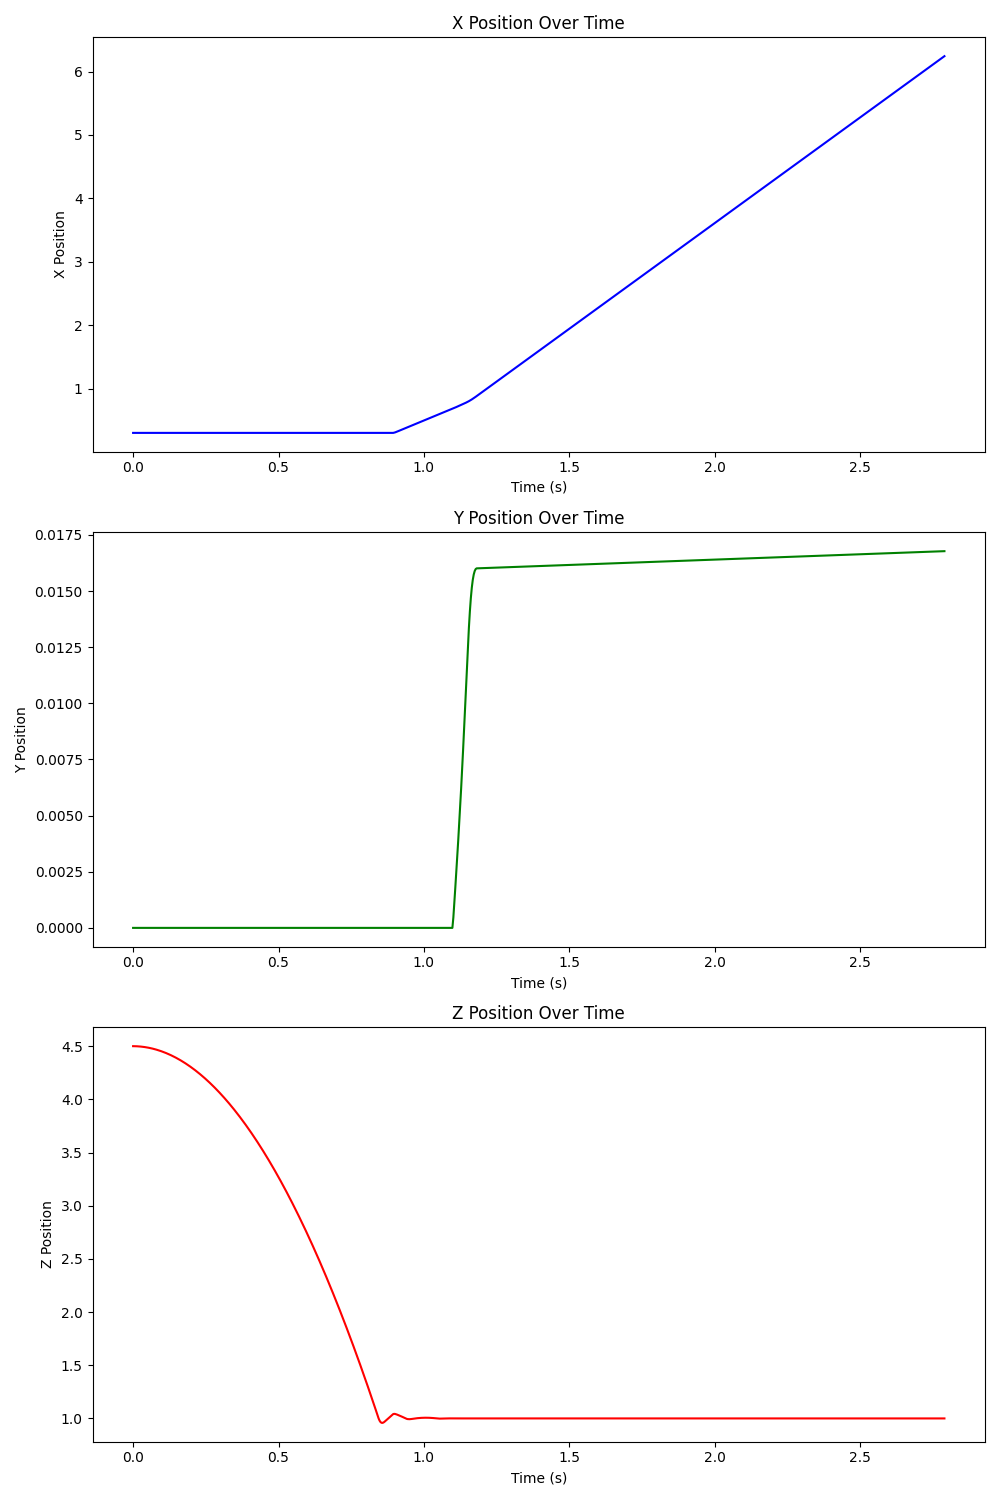
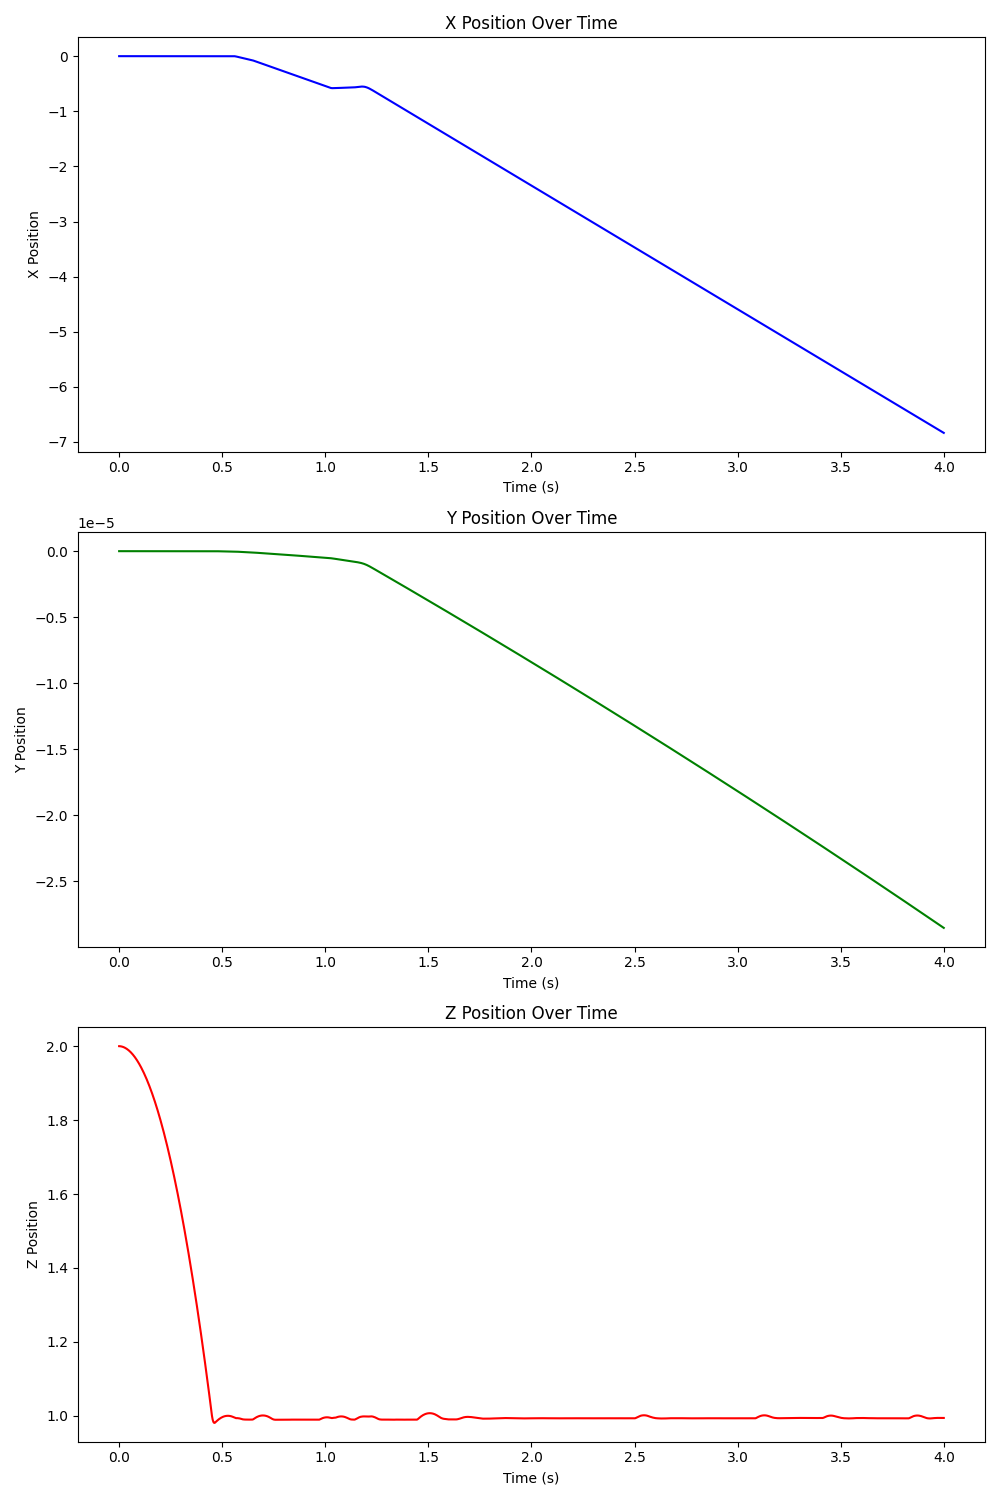
Update

diff --git a/demos/ball_bounce.py b/demos/ball_bounce.py
@@ -16,20 +16,20 @@ def ball_world_model(gravity: bool = True) -> wp.sim.Model:
     else:
         builder = wp.sim.ModelBuilder(gravity=0.0, up_vector=wp.vec3(0, 0, 1))
 
-    # ball1 = builder.add_body(
-    #     origin=wp.transform((0.0, 0.0, 2.0), wp.quat_identity()), name="ball1"
-    # )
-    # builder.add_shape_sphere(
-    #     body=ball1,
-    #     radius=1.0,
-    #     density=10.0,
-    #     ke=2000.0,
-    #     kd=10.0,
-    #     kf=200.0,
-    #     mu=1.0,
-    #     restitution=0.5,
-    #     thickness=0.0,
-    # )
+    ball1 = builder.add_body(
+        origin=wp.transform((0.0, 0.0, 2.0), wp.quat_identity()), name="ball1"
+    )
+    builder.add_shape_sphere(
+        body=ball1,
+        radius=1.0,
+        density=10.0,
+        ke=2000.0,
+        kd=10.0,
+        kf=200.0,
+        mu=1.0,
+        restitution=0.5,
+        thickness=0.0,
+    )
 
     ball2 = builder.add_body(
         origin=wp.transform((0.3, 0.0, 4.5), wp.quat_identity()), name="ball2"
@@ -63,27 +63,42 @@ def ball_world_model(gravity: bool = True) -> wp.sim.Model:
         thickness=0.0,
     )
 
-    box1 = builder.add_body(
-        origin=wp.transform((0.0, 0.0, 8.6), wp.quat_identity()), name="box1"
+    ball4 = builder.add_body(
+        origin=wp.transform((-0.6, 0.0, 10.5), wp.quat_identity()), name="ball3"
     )
 
-    builder.add_shape_box(
-        body=box1,
-        hx=0.5,
-        hy=0.5,
-        hz=0.5,
-        density=20.0,
+    builder.add_shape_sphere(
+        body=ball4,
+        radius=0.5,
+        density=10.0,
         ke=2000.0,
         kd=10.0,
         kf=200.0,
         mu=1.0,
-        restitution=0.2,
+        restitution=0.5,
+        thickness=0.0,
+    )
+    box1 = builder.add_body(
+        origin=wp.transform((0.0, 0.0, 9.0), wp.quat_identity()), name="box1"
+    )
+
+    builder.add_shape_box(
+        body=box1,
+        hx=0.8,
+        hy=0.8,
+        hz=0.8,
+        density=10.0,
+        ke=2000.0,
+        kd=10.0,
+        kf=200.0,
+        mu=1.0,
+        restitution=0.5,
         thickness=0.0,
     )
 
     # builder.body_qd[box1] = wp.spatial_vector(0.35, 0.0, 0.0, 0.0, 0.0, 0.0)
 
-    builder.set_ground_plane(ke=10, kd=10, kf=0.0, mu=1.0, restitution=1.0)
+    builder.set_ground_plane(ke=10, kd=10, kf=0.0, mu=1.0, restitution=0.8)
     model = builder.finalize()
 
     return model
@@ -116,7 +131,7 @@ class BallBounceSim:
 
         # Simulation and rendering parameters
         self.fps = 30
-        self.num_frames = 90
+        self.num_frames = 120
         self.sim_substeps = 10
         self.frame_dt = 1.0 / self.fps
         self.sim_dt = self.frame_dt / self.sim_substeps

diff --git a/src/axion/nsn_engine.py b/src/axion/nsn_engine.py
@@ -6,6 +6,8 @@ from axion.dynamics_constraint import unconstrained_dynamics_kernel
 from axion.utils.add_inplace import add_inplace
 from warp.optim.linear import bicgstab
 from warp.optim.linear import cg
+from warp.optim.linear import gmres
+from warp.optim.linear import preconditioner
 from warp.sim import Control
 from warp.sim import Integrator
 from warp.sim import Model
@@ -134,7 +136,7 @@ def add_delta_x(
 class NSNEngine(Integrator):
     def __init__(
         self,
-        tolerance: float = 1e-6,
+        tolerance: float = 1e-4,
         max_iterations: int = 10,
         regularization: float = 1e-4,
     ):
@@ -186,18 +188,23 @@ class NSNEngine(Integrator):
 
             # print("Residual: ", -neg_res.numpy())
             res_norm = np.linalg.norm(neg_res.numpy())
-            if res_norm < 1e-3:
+            if res_norm < 0.1:
                 # print(f"Converged with residual norm: {res_norm}")
                 break
 
+            M = preconditioner(jacobian, ptype="diag")
+
             # Solve the linear system
             delta_x.zero_()
-            _, lin_res_norm, _ = bicgstab(
+            _, _, _ = gmres(
                 A=jacobian,
                 b=neg_res,
                 x=delta_x,
+                restart=64,
                 tol=self.tolerance,
+                # atol=self.tolerance,
                 maxiter=300,
+                M=M,
             )
 
             add_delta_x(delta_x, state_out.body_qd, lambda_n, 0, 6 * B)

diff --git a/src/axion/contact_constraint.py b/src/axion/contact_constraint.py
@@ -282,7 +282,9 @@ def setup_data(num_bodies, num_contacts, device):
         "jacobian": wp.zeros((2 * C, C + 6 * B), dtype=wp.float32, device=device),
     }
 
-    data["geo"].thickness = wp.array(np.random.rand(B), dtype=wp.float32, device=device)
+    data["shape_geo"].thickness = wp.array(
+        np.random.rand(B), dtype=wp.float32, device=device
+    )
     data["shape_materials"].restitution = wp.array(
         np.random.rand(B), dtype=wp.float32, device=device
     )

diff --git a/src/axion/dynamics_constraint.py b/src/axion/dynamics_constraint.py
@@ -182,7 +182,9 @@ def setup_data(num_bodies, num_contacts, device):
         "jacobian": wp.zeros((12 * B, 6 * B + C), dtype=wp.float32, device=device),
     }
 
-    data["geo"].thickness = wp.array(np.random.rand(B), dtype=wp.float32, device=device)
+    data["shape_geo"].thickness = wp.array(
+        np.random.rand(B), dtype=wp.float32, device=device
+    )
     return data
 
 
